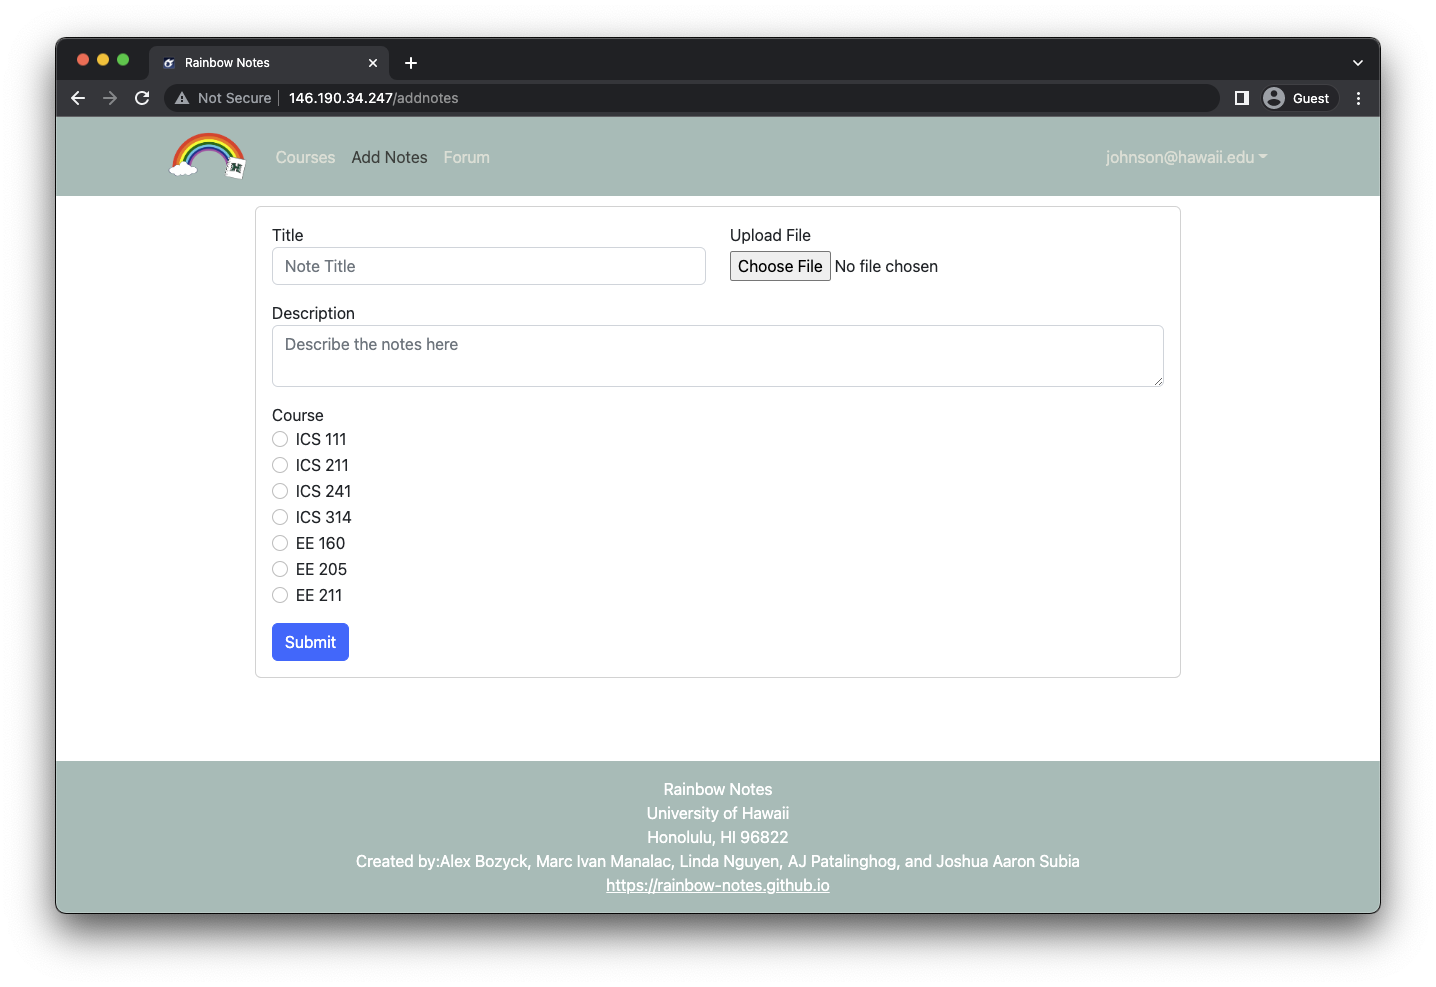
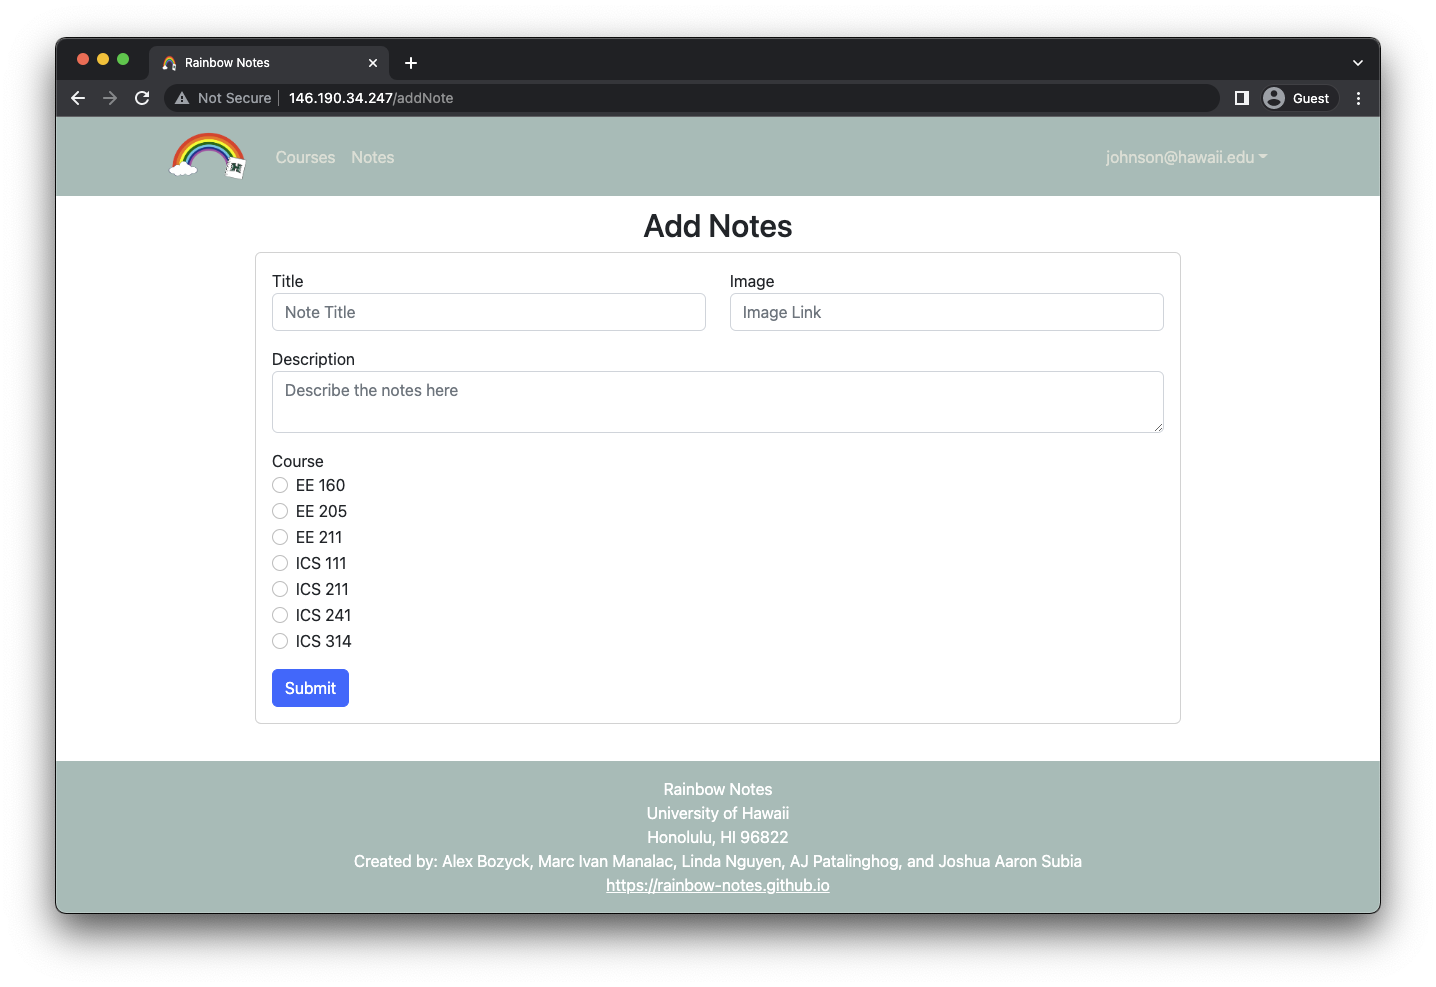
Finished requirements for Milestone 2.

diff --git a/index.md b/index.md
@@ -5,41 +5,38 @@
 ## Table of contents
 
 * [Overview](#overview)
-* [User Guide](#user-guide)
-* [Install](#install)
 * [Deployment](#deployment)
+* [User Guide](#user-guide)
+* [Developer Guide](#developer-guide)
 * [Development History](#development-history)
 * [Team Contract](#team-contract)
 * [Team](#team)
 
 ## Overview
 
-The goal of Rainbow Notes is to provide students a place where they can meet or discuss with others who previously took a course. Those who have completed a course can also post their notes for other students to see. In addition, they will be able to answer questions on the forum, which will form a community where students can be helped in the future as well. It will eventually incorporate various technologies such as:
+The goal of Rainbow Notes is to provide students a place where they can meet or discuss with others who previously took a course. Those who have completed a course can post their notes for other students to see. This forms a community where future students can refer to for help as well. It incorporates various technologies such as:
 
 * [Meteor](https://www.meteor.com/) for Javascript-based implementation of client and server code.
 * [React](https://reactjs.org/) for component-based UI implementation and routing.
 * [React Bootstrap](https://react-bootstrap.github.io/) CSS Framework for UI design.
 
-It will also provide code that implements design concepts including but not limited to the following:
+It also provides code that implements design concepts including but not limited to the following:
 
-* Two primary collections (Profiles and Courses) as well as two "join" Collections (Notes and Forums) that implement many-to-many relationships between them.
-* Top-level index pages (Profiles and Courses) that show how to manipulate these four collections in various ways.
-* Initialization code to define default Profiles and Courses and relations between them.
+* Four collections (Profiles, Courses, Notes and Ratings) that implement many-to-many relationships between them.
+* Top-level index pages (Courses, Notes, and Profile) that show how to manipulate these four collections in various ways.
+* Initialization code to define default Profiles, Courses, and Notes as well as the relations between them.
 * Use of Meteor Methods to illustrate how to simplify implementation of multiple collection updates.
 * Use of indexes to enforce uniqueness of certain fields in the collections, enabling them to serve as primary keys.
 * Authentication using the built-in Meteor accounts package along with Sign Up and Sign In pages.
-* Authorization examples: certain pages are public (Profiles and Courses), while other pages require login (AddNote, EditProfile).
+* Authorization examples: certain pages are public (Landing and Courses), while other pages require login (AddNote, EditProfile).
+
+## Deployment
+
+Our website was deployed through DigitalOcean and can be found here: [Rainbow Notes](http://146.190.34.247/)
 
 ## User Guide
 
 This section provides a walkthrough of the Rainbow Notes user interface and its capabilities.
-
-### Install
-* Download the repository
-* cd into /app directory
-* npm install meteor
-* npm install --save react-rating
-* meteor npm run start
 
 ### Landing Page
 
@@ -60,32 +57,84 @@ Alternatively, you can select "Sign up" to go to the following page and register
 
 ### Courses Page 
 
-The course page provides users with a list of courses and an option to add ones that aren't included. 
+The courses page provides you with a list of courses and an option to add ones that aren't included. The number of notes within a course is also listed next to each course name.
 
 ![](images/courses.png)
 
+### Individual Course Pages
+
+By clicking on any course button, you will be redirected to a separate course page which lists all of the notes within that course.
+
+![](images/individual-course.png)
+
+### Add Course Page
+
+The add course page allows you to create courses which aren't already listed. It verifies that the course doesn't exist before creating one to prevent duplicates.
+
+![](images/add-course.png)
+
+### Notes Page
+
+The notes page provides you with a list of all available notes and an option to add notes as well.
+
+![](images/notes.png)
+
+### Individual Note Pages
+
+By clicking on the see more button, you will be redirected to a separate note page where you can view and rate each note.
+
+![](images/individual-note.png)
+
 ### Add Notes Page
-The add notes page allows users to upload images of their course notes in addition to a title and description.
+
+The add notes page allows you to upload images of your course notes in addition to a title and description.
 
 ![](images/add-notes.png)
 
-### Forum Page
-The forum page provides users a place to ask and answer questions. There are several filtering options so users can search by specific features or categories.
-
-![](images/forum.png)
-
 ### Profile Page
-The profile pages prompts the user for a first and last name, email, biography, in addition to their courses taken and course interests. The Profile page also allows for editing of a profile.
+
+The profile pages prompts you for a first and last name, email, biography, in addition to your courses taken and course interests. The Profile page also allows for editing of a profile.
 
 ![](images/profile.png)
 
 ### Sign Out Page
-The sign out page is what users will see once they log out of their profile.
+
+The sign out page is what you will see once you log out of your profile.
 
 ![](images/sign-out.png)
 
-## Deployment
-Our website was deployed using Digital Ocean and can be found here: [Rainbow Notes](http://146.190.34.247/)
+## Developer Guide
+
+This section provides information of interest to Meteor developers wishing to use this code base as a basis for their own development tasks.
+
+### Installation
+
+First, [install Meteor](https://www.meteor.com/install).
+
+Second, visit the [Rainbow Notes application github page](https://github.com/rainbow-notes/rainbow-notes), and click the "Use this template" button to create your own repository initialized with a copy of this application. Alternatively, you can download the sources as a zip file or make a fork of the repo.  However you do it, download a copy of the repo to your local computer.
+
+Third, cd into the rainbow-notes/app directory and install libraries with:
+
+```
+$ meteor npm install
+```
+
+Fourth, run the system with:
+
+```
+$ meteor npm run start
+```
+
+If all goes well, the application will appear at [http://localhost:3000](http://localhost:3000).
+
+## Continuous Integration
+
+![ci-badge](https://github.com/rainbow-notes/rainbow-notes/workflows/ci-rainbow-notes/badge.svg)
+
+Rainbow Notes uses [GitHub Actions](https://docs.github.com/en/free-pro-team@latest/actions) to automatically run ESLint and TestCafe each time a commit is made to the default branch.  You can see the results of all recent "workflows" at [https://github.com/rainbow-notes/rainbow-notes/actions](https://github.com/rainbow-notes/rainbow-notes/actions).
+
+The workflow definition file is quite simple and is located at
+[.github/workflows/ci.yml](https://github.com/rainbow-notes/rainbow-notes/blob/main/.github/workflows/ci.yml).
 
 ## Development History
 
@@ -103,14 +152,13 @@ The following sections document the development history of Rainbow Notes.
 
 ### Milestone 1
 
-The goal of Milestone 1 was to create a set of React page mockups. The pages which have implemented are:
+The goal of Milestone 1 was to create a set of React page mockups. The pages which were implemented are:
 
 * Landing Page
 * Sign In Page
 * Sign Up Page
 * Courses Page
 * Add Notes Page
-* Forum Page
 * Profile Page
 * Sign Out Page
 
@@ -119,16 +167,35 @@ Milestone 1 was managed using [Rainbow Notes GitHub Project Board M1](https://gi
 ![](images/m1.png)
 
 ## Milestone 2
-The goal of Milestone 2 is to improve the functionality and design of our application through the use of MongoDB.
 
-Milestone 2 will be managed using [Rainbow Notes GitHub Project Board M2](https://github.com/orgs/rainbow-notes/projects/3).
+The goal of Milestone 2 was to improve the functionality and design of our application through the use of MongoDB. Improvements include:
+
+* New pages:
+  * Individual Course Pages
+  * Add Course Page
+  * Notes Page
+  * Individual Note Pages
+* New MongoDB collections:
+  * Courses collection
+  * Notes collection
+  * Ratings collection
+
+Milestone 2 was be managed using [Rainbow Notes GitHub Project Board M2](https://github.com/orgs/rainbow-notes/projects/3).
 
 ![](images/m2.png)
 
+## Milestone 3
+
+The goal of Milestone 3 is to improve the functionality of profiles and personalization of the website for each user.
+
+Milestone 3 will be managed using [Rainbow Notes GitHub Project Board M2](https://github.com/orgs/rainbow-notes/projects/3).
+
+![](images/m3.png)
+
 ## Team Contract
+
 The Team Contract can be accessed [here](https://docs.google.com/document/d/1BYhkQZ8t0XISmMmo7v_vEQqs3v2YHlsyFllaGU7u8lg/edit?usp=sharing).
 
-![](images/team-contract.png)
-
 ## Team
+
 Rainbow Notes is designed, implemented, and maintained by [Alex Bozyck](https://abozb01.github.io/), [Marc Ivan Manalac](https://marcivanmanalac.github.io/), [Linda Nguyen](https://lindanguyen25.github.io), [AJ Patalinghog](https://aj-patalinghog.github.io), and [Joshua Aaron Subia](https://josh-subia.github.io/).
